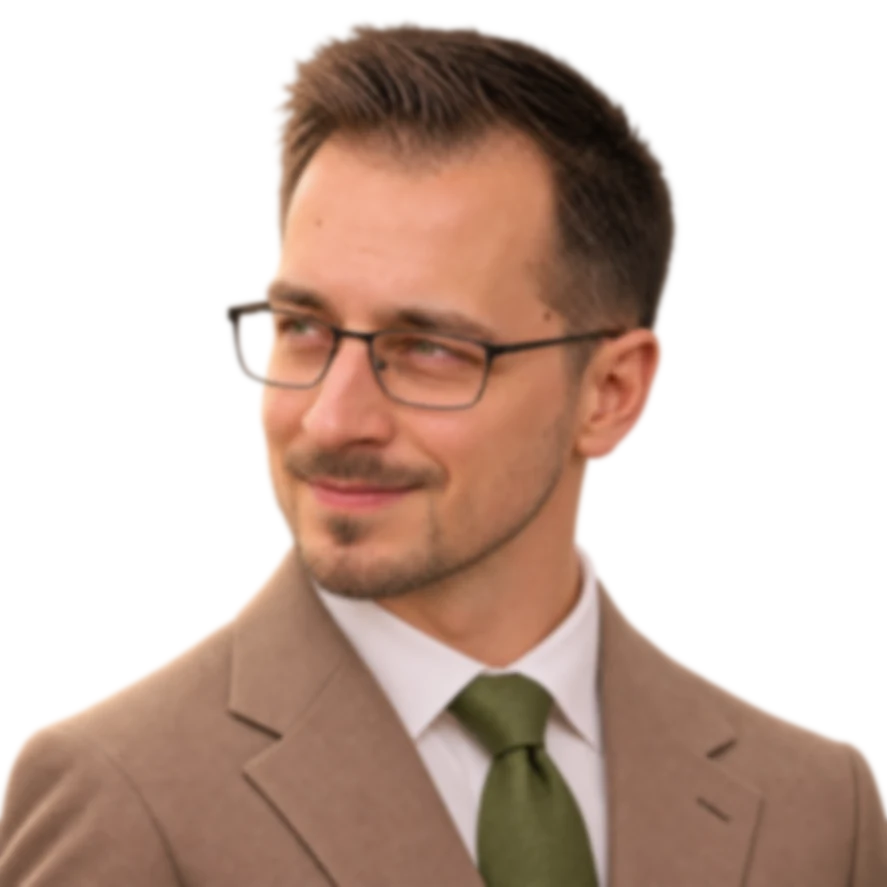
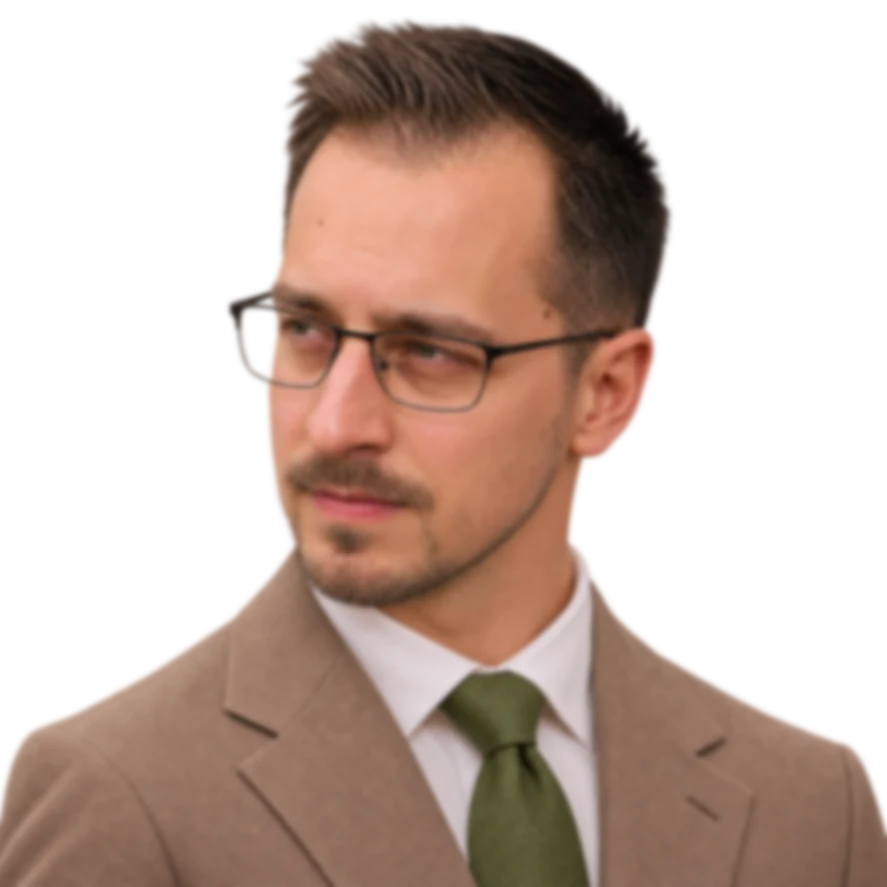
Publish the selected homepage portrait

diff --git a/index.html b/index.html
@@ -11,7 +11,7 @@
   <meta property="og:title" content="Neuhaus Apps — Apps worth opening">
   <meta property="og:description" content="Focused apps for tracking takeout, making room for prayer, and comparing job offers.">
   <meta property="og:url" content="https://neuhausapps.com/">
-  <meta property="og:image" content="https://neuhausapps.com/assets/img/neuhaus-team-hero.jpg?v=20261127-blend">
+  <meta property="og:image" content="https://neuhausapps.com/assets/img/neuhaus-team-hero.jpg?v=20261127-portrait">
   <meta property="og:image:width" content="1500">
   <meta property="og:image:height" content="728">
   <meta property="og:image:alt" content="Ian Neuhaus and his father in complementary ties beneath the Neuhaus wordmark">
@@ -68,9 +68,9 @@
         <img class="nh-portrait__person nh-portrait__person--father" src="assets/img/hero/father.webp?v=20261108-hires" width="887" height="887" fetchpriority="high" alt="Ian’s father in a taupe suit and burgundy tie">
         <img class="nh-portrait__person nh-portrait__person--father-blur-light" src="assets/img/hero/father-blur-light.webp" width="887" height="887" decoding="async" alt="" aria-hidden="true">
         <img class="nh-portrait__person nh-portrait__person--father-blur-heavy" src="assets/img/hero/father-blur-heavy.webp" width="887" height="887" decoding="async" alt="" aria-hidden="true">
-        <img class="nh-portrait__person nh-portrait__person--ian" src="assets/img/hero/ian.webp?v=20261127-blend" width="1254" height="1254" fetchpriority="high" alt="Ian in glasses, a taupe suit, and a green tie">
-        <img class="nh-portrait__person nh-portrait__person--ian-blur-light" src="assets/img/hero/ian-blur-light.webp?v=20261127-blend" width="887" height="887" decoding="async" alt="" aria-hidden="true">
-        <img class="nh-portrait__person nh-portrait__person--ian-blur-heavy" src="assets/img/hero/ian-blur-heavy.webp?v=20261127-blend" width="887" height="887" decoding="async" alt="" aria-hidden="true">
+        <img class="nh-portrait__person nh-portrait__person--ian" src="assets/img/hero/ian.webp?v=20261127-portrait" width="1254" height="1254" fetchpriority="high" alt="Ian in glasses, a taupe suit, and a green tie">
+        <img class="nh-portrait__person nh-portrait__person--ian-blur-light" src="assets/img/hero/ian-blur-light.webp?v=20261127-portrait" width="887" height="887" decoding="async" alt="" aria-hidden="true">
+        <img class="nh-portrait__person nh-portrait__person--ian-blur-heavy" src="assets/img/hero/ian-blur-heavy.webp?v=20261127-portrait" width="887" height="887" decoding="async" alt="" aria-hidden="true">
         <div class="nh-portrait__shade" aria-hidden="true"></div>
         <button class="nh-portrait__trigger nh-portrait__trigger--ian" type="button" data-hero-trigger="ios" aria-label="Ian: reveal iPhone apps" aria-controls="hero-iphone" aria-expanded="false" hidden></button>
         <a class="nh-portrait__link nh-portrait__link--apple" id="hero-iphone" data-hero-link="ios" href="#apps" hidden>
